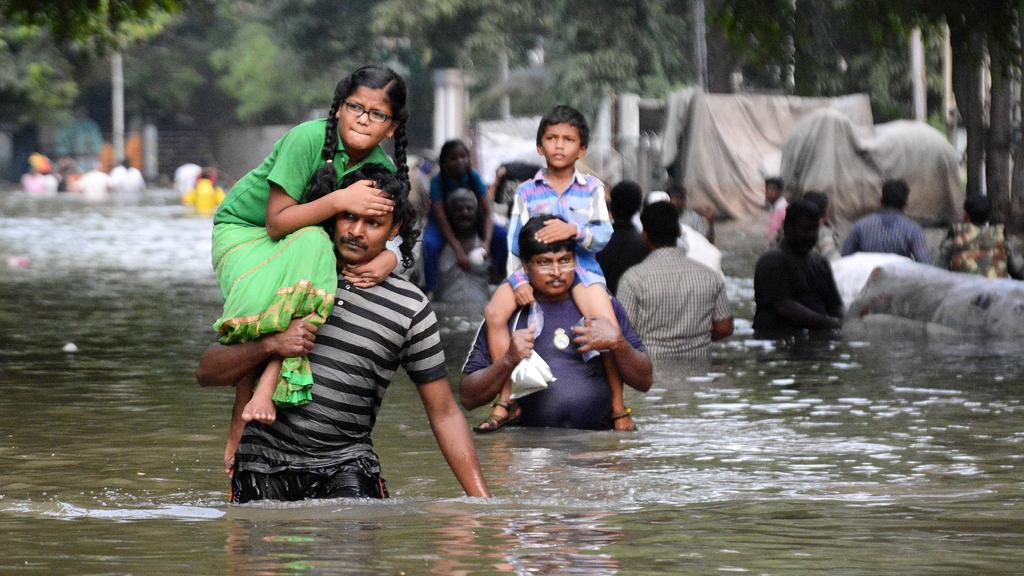
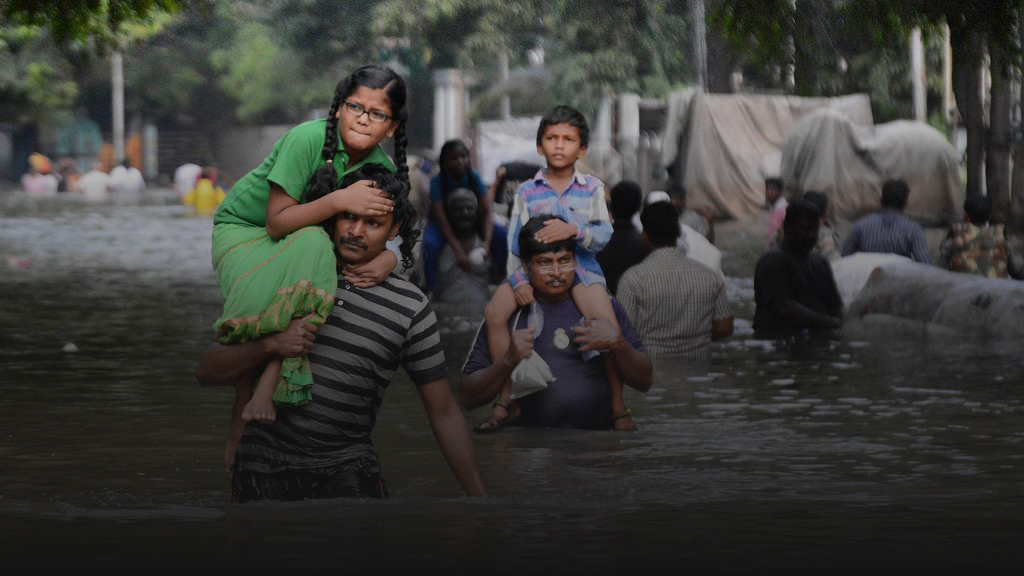
Header and Donate section complete

diff --git a/style.css b/style.css
@@ -1,0 +1,135 @@
+*{
+    margin: 0;
+    padding: 0;
+}
+
+body{
+    font-family: 'Montserrat', sans-serif;
+}
+
+nav{
+    display: flex;
+    align-items: center;
+    width: 100%;
+    height: 100vh;
+    background-image: url(./images/donation5.jpg);
+    background-repeat: no-repeat;
+    background-size: cover;
+    margin-bottom: 120px;
+}
+
+nav .text-area {
+    width: auto;
+    margin: 0 auto;
+    text-align: center;
+}
+
+nav .text-area h1{
+    width: 880px;
+    height: 160px;
+    font-weight: 700;
+    font-size: 65px;
+    line-height: 79px;
+    color: #FFFFFF;
+    padding-bottom: 25px;
+}
+
+nav .text-area p{
+    width: 690px;
+    height: 55px;
+    font-weight: 400;
+    font-size: 18px;
+    line-height: 28px;
+    color: #FFFFFF;
+    margin: 0 auto;
+    padding-bottom: 110px;
+}
+
+.button{
+    font-weight: 600;
+    font-size: 20px;
+    line-height: 24px;
+    color: #FFFFFF;
+    padding: 16px 12px;
+    text-decoration: none;
+    background: #FF5959;
+    border-radius: 5px;
+}
+
+.heading-donate h2{
+    font-style: normal;
+    font-weight: 700;
+    font-size: 45px;
+    line-height: 54px;
+    text-align: center;
+    color: #121212;
+    margin-bottom: 25px;
+}
+
+.heading-donate p{
+    font-style: normal;
+    font-weight: 400;
+    font-size: 18px;
+    line-height: 28px;
+    text-align: center;
+    color: #707070;
+    margin-bottom: 70px;
+}
+
+.donate{
+    display: flex;
+    justify-content: space-evenly;
+    margin-bottom: 80px;
+}
+
+.donate .amount{
+    width: 135px;
+    height: 123px;
+    background-color: #FAFAFA;
+    border-radius: 5px;
+    display: flex;
+    justify-content: center;
+    align-items: center;
+}
+
+.donate .amount h3{
+    font-weight: 700;
+    font-size: 30px;
+    line-height: 36px;
+    color: #707070;
+}
+
+#special{
+    background-color: #FFEEEE;
+    border: 2px solid #FF5959;
+    border-radius: 5px;
+}
+
+#special h3{
+    color: #FF5959;
+}
+
+.donate-field{
+    text-align: center;
+    margin-bottom: 100px;
+}
+
+.donate-input {
+    display: block;
+    margin: 0 auto;
+    border: none;
+    text-align: center;
+    font-weight: 400;
+    font-size: 18px;
+    line-height: 28px;
+    color: #B3B3B3;
+    width: 50%;
+}
+
+hr{
+    width: 60%;
+    margin: 0 auto;
+    margin-top: 10px;
+    color: #DADADA;
+    margin-bottom: 50px;
+}

diff --git a/index.html b/index.html
@@ -1,0 +1,50 @@
+<!DOCTYPE html>
+<html lang="en">
+<head>
+    <meta charset="UTF-8">
+    <meta http-equiv="X-UA-Compatible" content="IE=edge">
+    <meta name="viewport" content="width=device-width, initial-scale=1.0">
+    <title>Document</title>
+    <link rel="stylesheet" href="style.css">
+    <link rel="preconnect" href="https://fonts.googleapis.com">
+    <link rel="preconnect" href="https://fonts.gstatic.com" crossorigin>
+    <link href="https://fonts.googleapis.com/css2?family=Montserrat:ital,wght@0,100;0,200;0,300;0,400;0,500;0,600;0,700;0,800;0,900;1,100;1,200;1,300;1,400;1,500;1,600;1,700;1,800;1,900&display=swap" rel="stylesheet">
+</head>
+<body>
+    <nav>
+        <div class="text-area">
+            <h1>Let’s Help Those Who Are More In Need</h1>
+            <p>Floods paralysing Sylhet. Around 13 lakh people were affected in Sylhet city, including five Upazilas. As a part of the emergency response, we distribute food among the people in the flood-affected area. So, please come forward and support them with relief.</p>
+            <a class="button" href="">Donate Now</a>
+        </div>
+    </nav>
+
+    <div class="heading-donate">
+        <h2>Donate Today</h2>
+        <p>Be the reason of someone smiles</p>
+    </div>
+
+    <section class="donate">
+        <div class="amount">
+            <h3>100tk</h3>
+        </div>
+        <div class="amount" id="special">
+            <h3>200tk</h3>
+        </div>
+        <div class="amount">
+            <h3>500tk</h3>
+        </div>
+        <div class="amount">
+            <h3>1000tk</h3>
+        </div>
+        <div class="amount">
+            <h3>5000tk</h3>
+        </div>
+    </section>
+
+    <div class="donate-field">
+        <input class="donate-input" type="text" placeholder="Other Amount (Taka)"> <hr>
+        <a class="button" href="">Donate Now</a>
+    </div>
+</body>
+</html>
